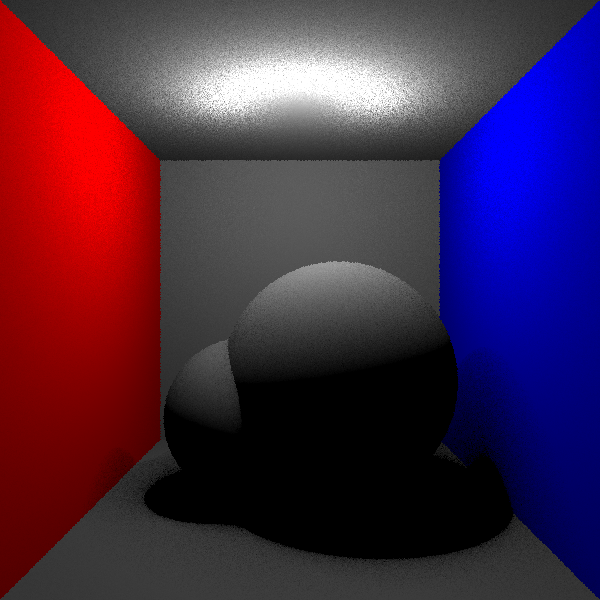
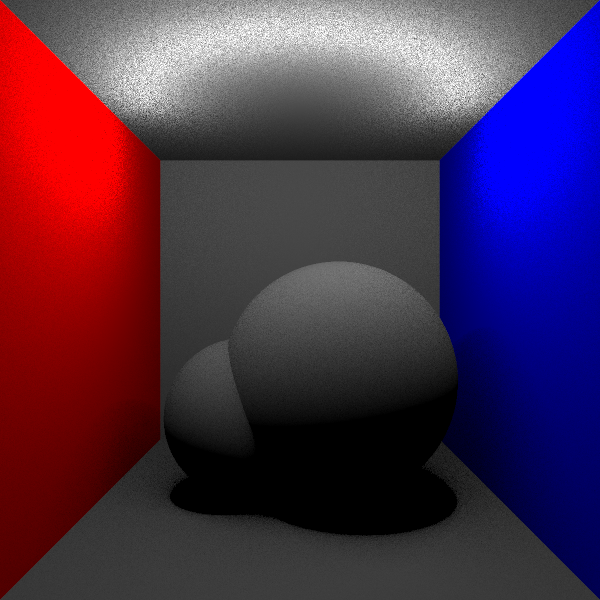
added slightly better subpixel sampling for anti-aliasing

diff --git a/RenderProcess.py b/RenderProcess.py
@@ -21,23 +21,34 @@ class RenderProcess(multiprocessing.Process):
 		#bucket rendered color data is stored in an array
 		bucketArray = numpy.ndarray(shape=(self.bucketHeight,self.width,3),dtype = numpy.uint8)
 
+		#shoot multiple rays each pixel for anti-aliasing
+		AAsample = 4
+		#--deconstruct AAsample---------
+		AAxSubstep = int(math.floor(math.sqrt(AAsample)))
+		AAxSubstepLen = 1.0 / AAxSubstep
+		AAySubstep = int(AAsample / AAxSubstep)
+		AAySubstepLen = 1.0 /AAySubstep
+
 		#----shoot rays-------
 		for j in range(self.startLine,self.startLine + self.bucketHeight):
+			#----Each line of pixels level--------------
 			for i in range(0,self.width):
-				#shoot 4 rays each pixel for anti-aliasing
+				#--------Each pixel level--------------------
 				col = Vector(0,0,0)
-				AAsample = 1
-				for k in range(0,AAsample):
-					rayDir = Vector(i + random.random() - self.width/2, -j - random.random() + self.height/2,
-									-0.5*self.width/math.tan(math.radians(self.cam.angle/2))) #Warning!!!!! Convert to radian!!!!!!!
-					ray = Ray(self.cam.pos,rayDir)
 
-					#----check intersections with spheres----
-					#hitResult is a list storing calculated data [hit_t, hit_pos,hit_normal,objectId]
-					hitResult = []
-					hitBool = self.scene.getClosestIntersection(ray,hitResult)
+				for AAy in range(0,AAySubstep):
+					for AAx in range(0,AAxSubstep):
+						rayDir = Vector(i + AAx * AAxSubstepLen + AAxSubstepLen/2 - self.width/2,
+										-j - AAy * AAySubstepLen - AAySubstepLen/2 + self.height/2,
+										-0.5*self.width/math.tan(math.radians(self.cam.angle/2))) #Warning!!!!! Convert to radian!!!!!!!
+						ray = Ray(self.cam.pos,rayDir)
 
-					col = col + self.getColor(hitBool,hitResult)
+						#----check intersections with spheres----
+						#hitResult is a list storing calculated data [hit_t, hit_pos,hit_normal,objectId]
+						hitResult = []
+						hitBool = self.scene.getClosestIntersection(ray,hitResult)
+
+						col = col + self.getColor(hitBool,hitResult)
 
 				averageCol = self.clampColor(self.gammaCorrect(col / AAsample))
 				bucketArray[j%self.bucketHeight,i] = [int(averageCol.x*255),int(averageCol.y*255),int(averageCol.z*255)]

diff --git a/Light.py b/Light.py
@@ -2,7 +2,8 @@ from Geo.Vector import Vector
 import random, math
 
 class Light:
-	#This is a base class for all types of lights, holds the common light attributes
+	#This is a base class for all types of lights which holds the common light attributes
+	#All types of light should inherit this class
 	def __init__(self,pos,intensity,color):
 		self.pos = pos
 		self.intensity = intensity
@@ -17,14 +18,21 @@ class PointLight(Light):
 
 
 class DiskLight(Light):
-	def __init__(self,pos,radius,intensity = 5000, color = Vector(1,1,1)):
+	def __init__(self,pos,radius,intensity = 5000, color = Vector(1,1,1),samples = 8):
 		super().__init__(pos,intensity,color)
 		self.type = 'Area'
 		self.radius = radius
-		self.samples = 16
+		self.samples = samples
 
 	def getRandomSample(self):
 		#generate a sample point on the disk
 		theta = random.random() * math.pi #range [0,2pi)
 		randPointOnDisk =self.pos +  Vector(math.cos(theta) * self.radius,0,math.sin(theta) * self.radius)
 		return randPointOnDisk
+
+class RectangleLight(Light):
+	def __init__(self,pos,radius,intensity = 500, color = Vector(1,1,1), samples = 8):
+		super().__init__(pos,intensity,color)
+		self.type = 'Area'
+		self.radius = radius
+		self.samples = samples

diff --git a/Main.py b/Main.py
@@ -42,7 +42,7 @@ def main():
 	plane03 = Plane(Vector(0,0,-186),10,Vector(0,0,1)) #back wall
 	plane04 = Plane(Vector(50,0,-136),10,Vector(-1,0,0),blueLambert) #right wall
 	plane05 = Plane(Vector(0,50,-136),10,Vector(0,-1,0)) #top wall
-	light01 = DiskLight(Vector(0,40,-136),20) #light source on the top
+	light01 = DiskLight(Vector(0,40,-136),40) #light source on the top
 	# light02 = PointLight(Vector(-20,40,-100))
 	# light03 = PointLight(Vector(20,30,-90))
 
